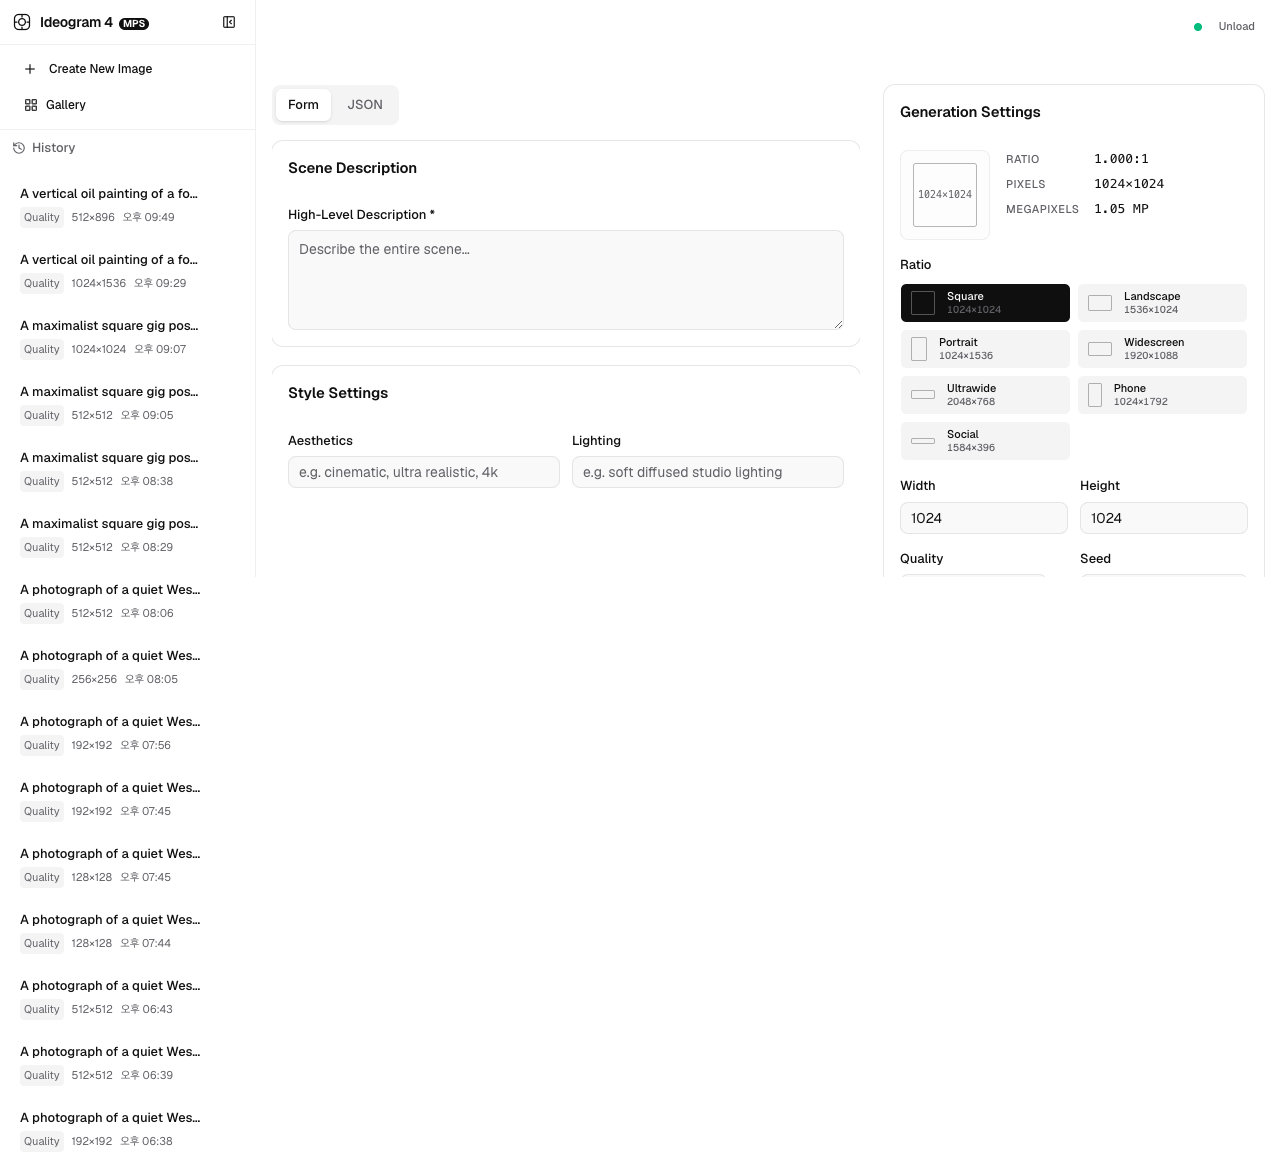
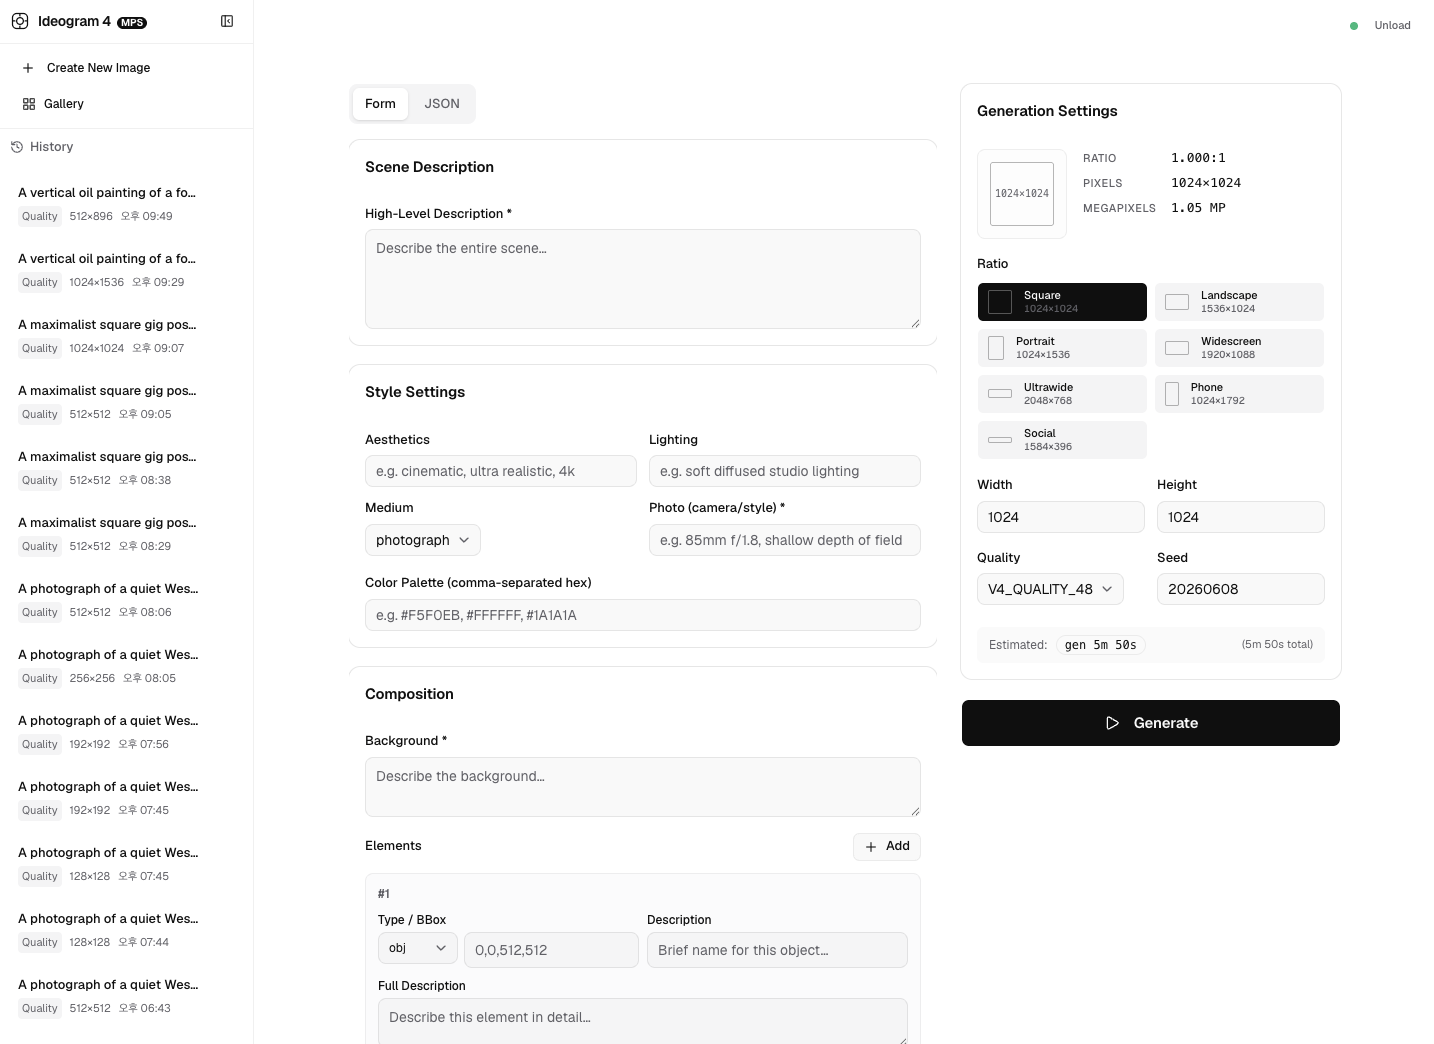
feat: add Korean-themed prompts, non-square resolution support, README examples

diff --git a/ideogram4_mps.py b/ideogram4_mps.py
@@ -15,6 +15,7 @@ Usage:
     python ideogram4_mps.py --prompt-file caption.json --out result.png
     python ideogram4_mps.py --prompt '{"high_level_description":"..."}' --out out.png
     python ideogram4_mps.py --prompt-file cap.json --resolution 512 --preset V4_TURBO_12 --out out.png
+    python ideogram4_mps.py --prompt-file cap.json --width 832 --height 1248 --out out.png
 
 Presets: V4_QUALITY_48 (best), V4_DEFAULT_20, V4_TURBO_12
 Resolutions: any multiple of 16 (512, 768, 1024, 1536, 2048)
@@ -212,10 +213,22 @@ def main():
         help=f"HuggingFace repo ID (default: {DEFAULT_REPO})",
     )
     parser.add_argument(
+        "--width",
+        type=int,
+        default=None,
+        help="Output width, multiple of 16 (overrides --resolution)",
+    )
+    parser.add_argument(
+        "--height",
+        type=int,
+        default=None,
+        help="Output height, multiple of 16 (overrides --resolution)",
+    )
+    parser.add_argument(
         "--resolution",
         type=int,
         default=1024,
-        help="Square resolution, multiple of 16 (default: 1024)",
+        help="Square resolution, multiple of 16 (default: 1024). Ignored if --width/--height set.",
     )
     parser.add_argument(
         "--preset",
@@ -257,19 +270,29 @@ def main():
     from ideogram4.sampler_configs import PRESETS
 
     preset = PRESETS[args.preset]
-    res = args.resolution
-    if res % 16:
-        res = (res // 16) * 16
-        logger.info("Resolution rounded to %d", res)
+
+    if args.width is not None and args.height is not None:
+        w, h = args.width, args.height
+    elif args.width is not None or args.height is not None:
+        parser.error("--width and --height must be set together")
+    else:
+        w = h = args.resolution
+
+    if w % 16:
+        w = (w // 16) * 16
+        logger.info("Width rounded to %d", w)
+    if h % 16:
+        h = (h // 16) * 16
+        logger.info("Height rounded to %d", h)
 
     logger.info("Preset: %s  |  %d steps  |  mu=%s std=%s", args.preset, preset.num_steps, preset.mu, preset.std)
-    logger.info("Resolution: %dx%d  |  Seed: %d", res, res, args.seed)
+    logger.info("Resolution: %dx%d  |  Seed: %d", w, h, args.seed)
 
     t0 = time.time()
     images = pipe(
         prompts=prompt,
-        height=res,
-        width=res,
+        height=h,
+        width=w,
         num_steps=preset.num_steps,
         guidance_schedule=preset.guidance_schedule,
         mu=preset.mu,
@@ -285,7 +308,7 @@ def main():
 
     log = {
         "preset": args.preset,
-        "resolution": [res, res],
+        "resolution": [w, h],
         "steps": preset.num_steps,
         "seed": args.seed,
         "generation_seconds": round(gen_s, 1),

diff --git a/README.md b/README.md
@@ -215,7 +215,13 @@ The `.log` suffix from generation metadata (`result.log`) is kept in git via
 
 ## Example output
 
-![Korean woman in hanbok, garden at dawn, V4_QUALITY_48 at 1024×1024](result.png)
+<table>
+  <tr>
+    <td align="center"><img src="result.png" alt="Korean woman in hanbok, garden at dawn" width="300"/><br/><sub>한복 여인, 새벽 정원<br/>(V4_QUALITY_48, 1024×1024)</sub></td>
+    <td align="center"><img src="result_village.png" alt="Korean hanok village at twilight" width="300"/><br/><sub>황혼 녘 한옥마을<br/>(V4_QUALITY_48, 1024×1024)</sub></td>
+    <td align="center"><img src="result_pattern.png" alt="Korean traditional folk pattern illustration" width="200"/><br/><sub>전통 문양 일러스트<br/>(V4_QUALITY_48, 832×1248)</sub></td>
+  </tr>
+</table>
 
 ## License
 